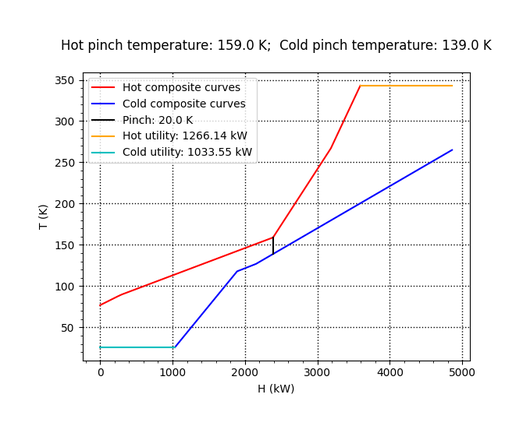
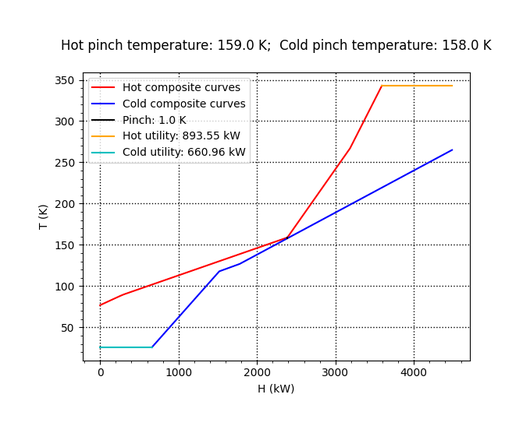
graph info

diff --git a/interface/main.py b/interface/main.py
@@ -2645,8 +2645,67 @@ class Desenho(QWidget):
 			painter.drawText(QRect(int(onde[0] + raio_trocador/2 - len(calor)*w_string), int(onde[1]-raio_trocador-1), int(len(calor)*2*w_string), int(h_string*3)), Qt.AlignHCenter, calor)
 			painter.drawText(QRect(int(onde[0]), int(onde[1] - raio_trocador/2), int(raio_trocador), int(raio_trocador)), Qt.AlignCenter, id)
 
+		def legenda(painer, ondeq, ondef):
+
+			painter.setPen(QPen(Qt.black, 1, Qt.SolidLine))
+			painter.setBrush(QColor("white"))
+			painter.drawRect(int(ondeq[0] - 12*espaco), int(ondeq[1] - 3*raio_trocador), int(24*espaco + raio_trocador), int(ondef[1] - ondeq[1] + 4*raio_trocador))
+			painter.drawLine(int(ondeq[0] + raio_trocador/2 - w_string*len("Legend")), int(ondeq[1] - 2*raio_trocador + h_string - 1), int(ondeq[0] + raio_trocador/2 + w_string*len("Legend")), int(ondeq[1] - 2*raio_trocador + h_string - 1))
+
+			painter.setPen(QPen(Qt.red, grossura_seta, Qt.SolidLine))
+			painter.drawLine(int(ondeq[0] - 10*espaco), int(ondeq[1]), int(ondeq[0] + 10*espaco + raio_trocador), int(ondeq[1]))
+			painter.drawLine(int(ondeq[0] + 10*espaco + raio_trocador), int(ondeq[1]), int(ondeq[0] + 10*espaco + raio_trocador - valor), int(ondeq[1] - h_seta))
+			painter.drawLine(int(ondeq[0] + 10*espaco + raio_trocador), int(ondeq[1]), int(ondeq[0] + 10*espaco + raio_trocador - valor), int(ondeq[1] + h_seta))
+
+			painter.setPen(QPen(Qt.blue, grossura_seta, Qt.SolidLine))
+			painter.drawLine(int(ondef[0] - 10*espaco), int(ondef[1]), int(ondef[0] + 10*espaco + raio_trocador), int(ondef[1]))
+			painter.drawLine(int(ondef[0] - 10*espaco), int(ondef[1]), int(ondef[0] - 10*espaco + valor), int(ondef[1] - h_seta))
+			painter.drawLine(int(ondef[0] - 10*espaco), int(ondef[1]), int(ondef[0] - 10*espaco + valor), int(ondef[1] + h_seta))
+
+			painter.setPen(QPen(Qt.black, grossura_seta, Qt.SolidLine))
+			painter.drawLine(int(ondeq[0] + raio_trocador/2), int(ondeq[1]), int(ondef[0] + raio_trocador/2), int(ondef[1]))
+			painter.drawEllipse(int(ondeq[0]), int(ondeq[1] - raio_trocador/2), int(raio_trocador), int(raio_trocador))
+			painter.drawEllipse(int(ondef[0]), int(ondef[1] - raio_trocador/2), int(raio_trocador), int(raio_trocador))
+
+			fonte = painter.font()
+			fonte.setPointSize(fonte_calor)
+			fonte.setBold(True)
+			fonte.setFamily("Arial")
+			painter.setFont(fonte)
+
+			painter.drawText(QRect(int(ondeq[0]), int(ondeq[1] - raio_trocador/2), int(raio_trocador), int(raio_trocador)), Qt.AlignCenter, "Id")
+			painter.drawText(QRect(int(ondef[0]), int(ondef[1] - raio_trocador/2), int(raio_trocador), int(raio_trocador)), Qt.AlignCenter, "Id")
+
+			texto = "Heat Load ({})".format(unidades_usadas[2])
+			painter.drawText(QRect(int(ondeq[0] + raio_trocador/2 - w_string*(len(texto))), int(ondeq[1] - raio_trocador - 1), int(2*w_string*(len(texto))), int(h_string*3)), Qt.AlignHCenter, texto)
+
+			fonte = painter.font()
+			fonte.setPointSize(fonte_temp)
+			fonte.setBold(False)
+			fonte.setFamily("Arial")
+			painter.setFont(fonte)
+
+			texto = "Thin ({})".format(unidades_usadas[0])
+			painter.drawText(QRect(int(ondeq[0] - 1 - w_string*len(texto)), int(ondeq[1] + 1), int(w_string*len(texto)), int(h_string*3)), Qt.AlignRight, texto)
+			texto = "Thout ({})".format(unidades_usadas[0])
+			painter.drawText(QRect(int(ondeq[0] + raio_trocador + 1), int(ondeq[1]+1), int(w_string*len(texto)), int(h_string*3)), Qt.AlignLeft, texto)
+			texto = "Tcout ({})".format(unidades_usadas[0])
+			painter.drawText(QRect(int(ondef[0] - 1 - w_string*len(texto)), int(ondef[1] + 1), int(w_string*len(texto)), int(h_string*3)), Qt.AlignRight, texto)
+			texto = "Tcin ({})".format(unidades_usadas[0])
+			painter.drawText(QRect(int(ondef[0] + raio_trocador + 1), int(ondef[1]+1), int(w_string*len(texto)), int(h_string*3)), Qt.AlignLeft, texto)
+
+			fonte = painter.font()
+			fonte.setPointSize(fonte_calor + 2)
+			fonte.setBold(True)
+			fonte.setFamily("Arial")
+			painter.setFont(fonte)
+
+			painter.drawText(QRect(int(ondeq[0] + raio_trocador/2 - w_string*len("Legend")), int(ondeq[1] - 2.5*raio_trocador), int(2*w_string*len("Legend")), int(3*h_string)), Qt.AlignHCenter, "Legend")
+
+
 		global localizacao_quente, localizacao_fria, valor, espaco, fonte_temp, fonte_calor, ramox, ramoy, meio, w_string, h_string, h_seta
 		painter = QPainter(self)
+		painter.setRenderHints(QPainter.Antialiasing)
 		painter.setPen(QPen(Qt.white, 0, Qt.SolidLine))
 		painter.setBrush(QBrush(Qt.white, Qt.SolidPattern))
 		painter.drawRect(0, 0, self.tamanho[0], self.tamanho[1])
@@ -2839,8 +2898,12 @@ class Desenho(QWidget):
 		#criar a linha do pinch e cabeçalhos
 		if self.subrede == "acima":
 			pinch(painter, [x_direita + 1, comecary, x_direita + 1, localizacao_fria[-1][-1] + ramoy], [str('{:.2f}'.format(round(pinchq, 2))), str('{:.2f}'.format(round(pinchf, 2)))], [x_esquerda, comecary])
+			legenda(painter, [x_direita + maior_duty + 14*espaco, localizacao_fria[-1][0]], [x_direita + maior_duty + 14*espaco, localizacao_fria[-1][0] + 4*espaco])
 		elif self.subrede == "abaixo":
 			pinch(painter, [x_esquerda - 1, comecary, x_esquerda - 1, localizacao_fria[-1][-1] + ramoy], [str('{:.2f}'.format(round(pinchq, 2))), str('{:.2f}'.format(round(pinchf, 2)))], [x_direita, comecary])
+			legenda(painter, [x_direita + 30*espaco + maior_temp + maior_duty, localizacao_fria[-1][0]], [x_direita + 30*espaco + maior_temp + maior_duty, localizacao_fria[-1][0] + 4*espaco])
+		elif self.subrede == "ambas":
+			legenda(painter, [x_direita + 20*espaco + maior_temp + maior_duty, localizacao_fria[1][-1][0]], [x_direita + 20*espaco + maior_temp + maior_duty, localizacao_fria[1][-1][0] + 4*espaco])
 
 		#criar os trocadores
 		for t in trocadores:
@@ -5660,7 +5723,7 @@ for i in range(5):
 openfile_teste(pergunta=False, nome="9 correntes - 20 dtmin.xls")
 done_teste(True)
 pinch_teste(False)
-# suprir_9_correntes()
+suprir_9_correntes()
 
 
 
